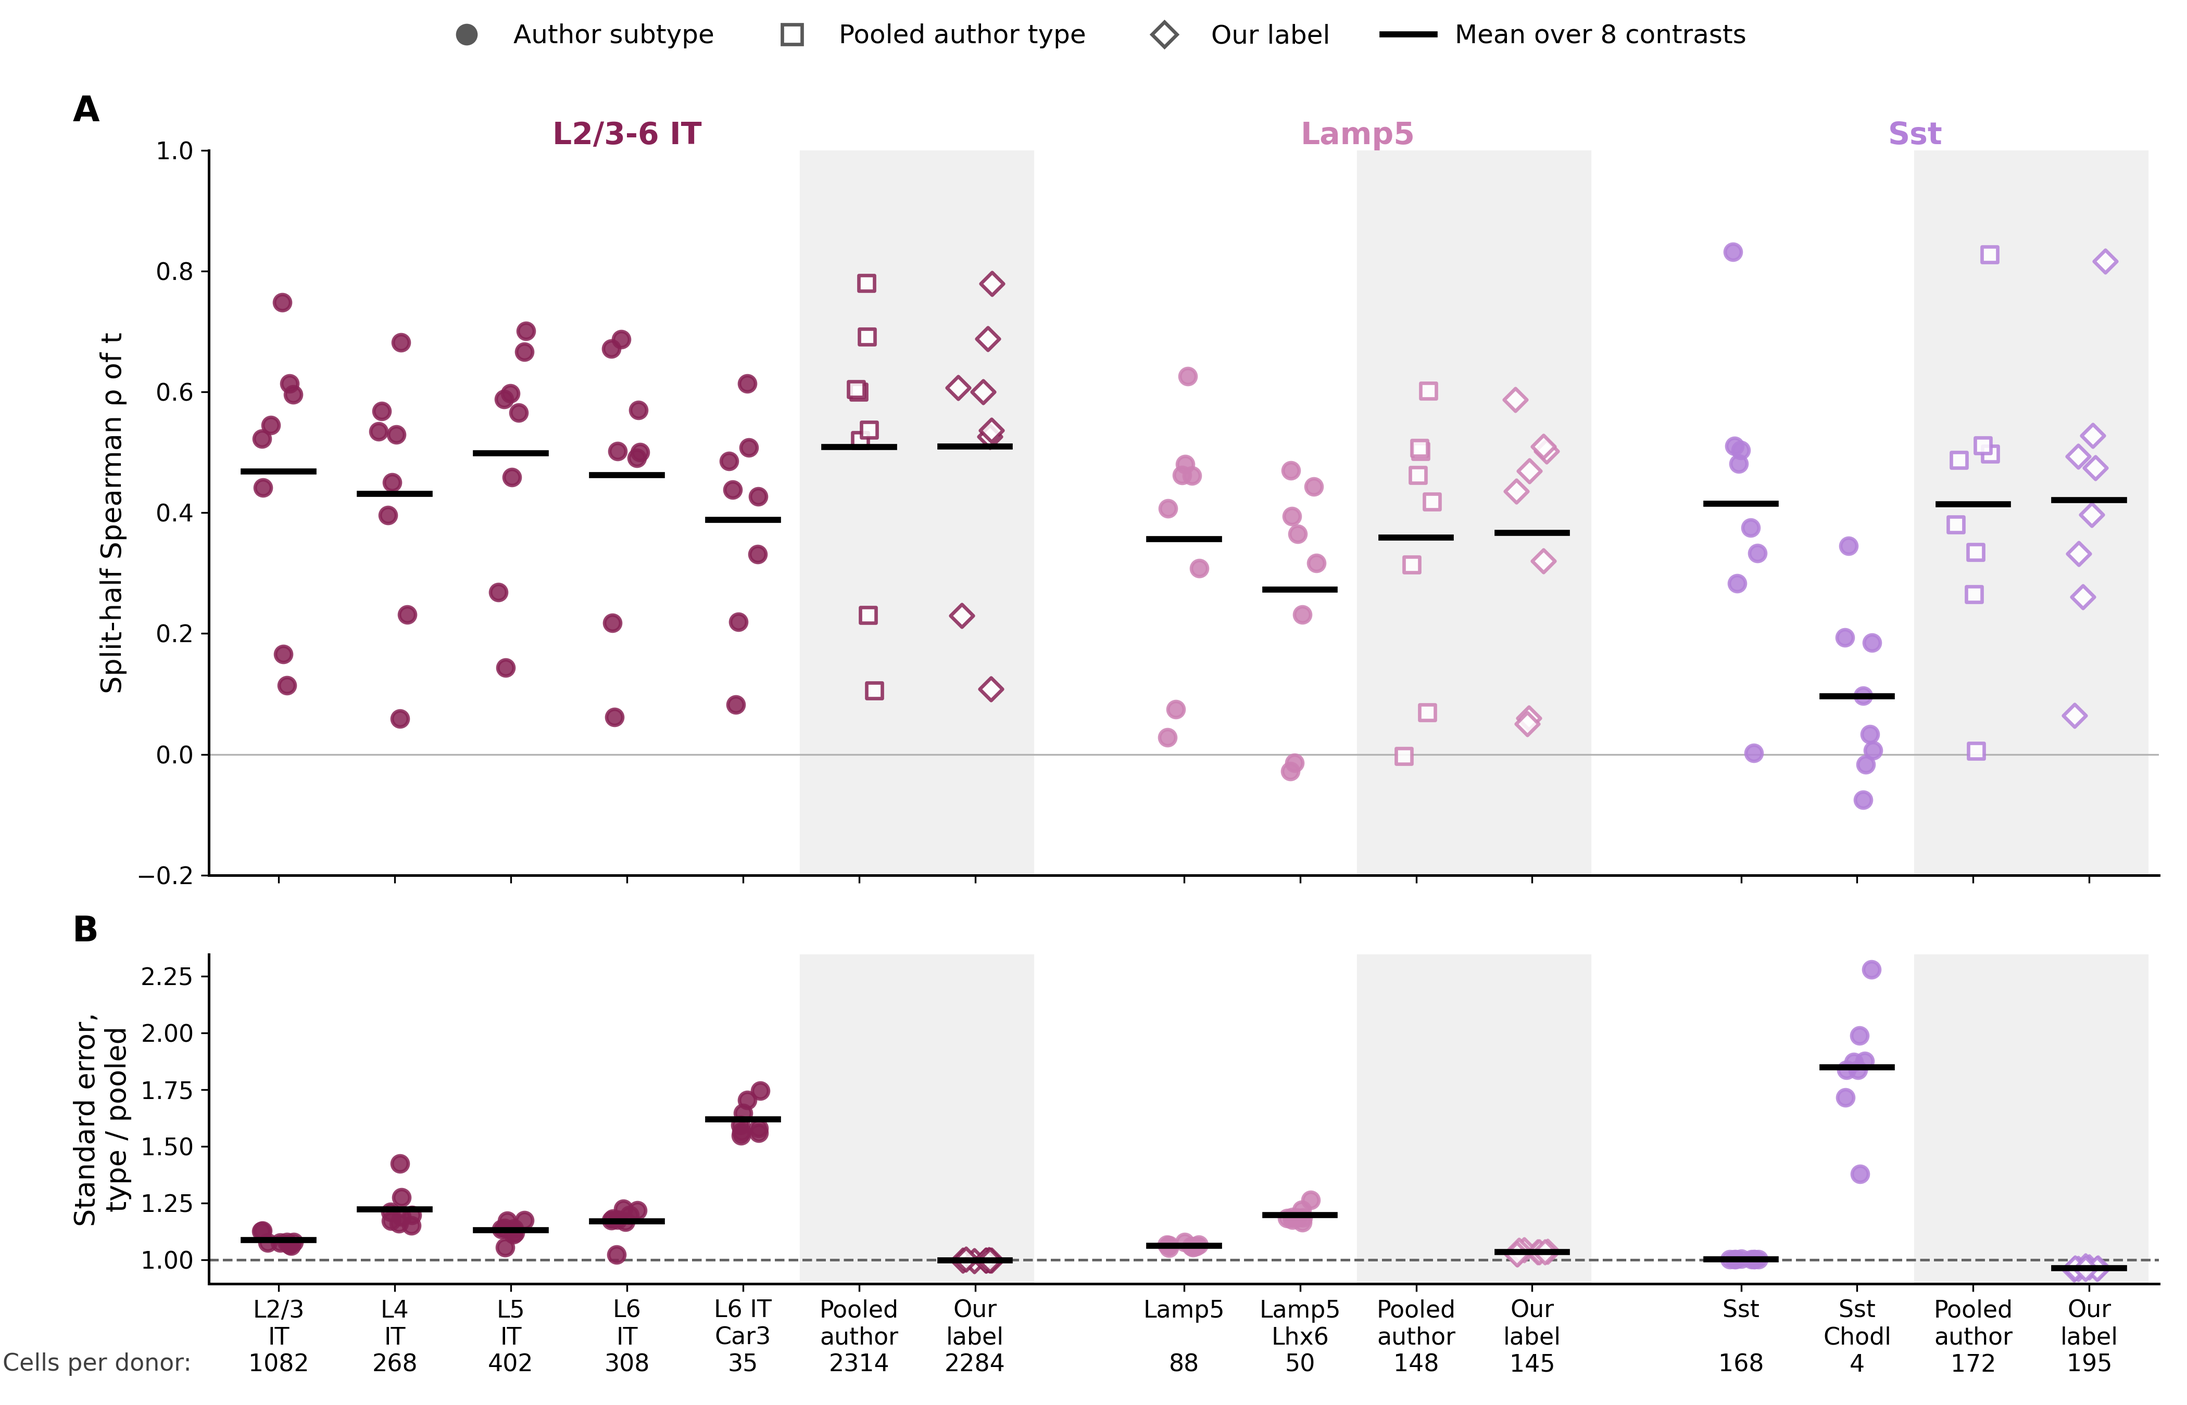
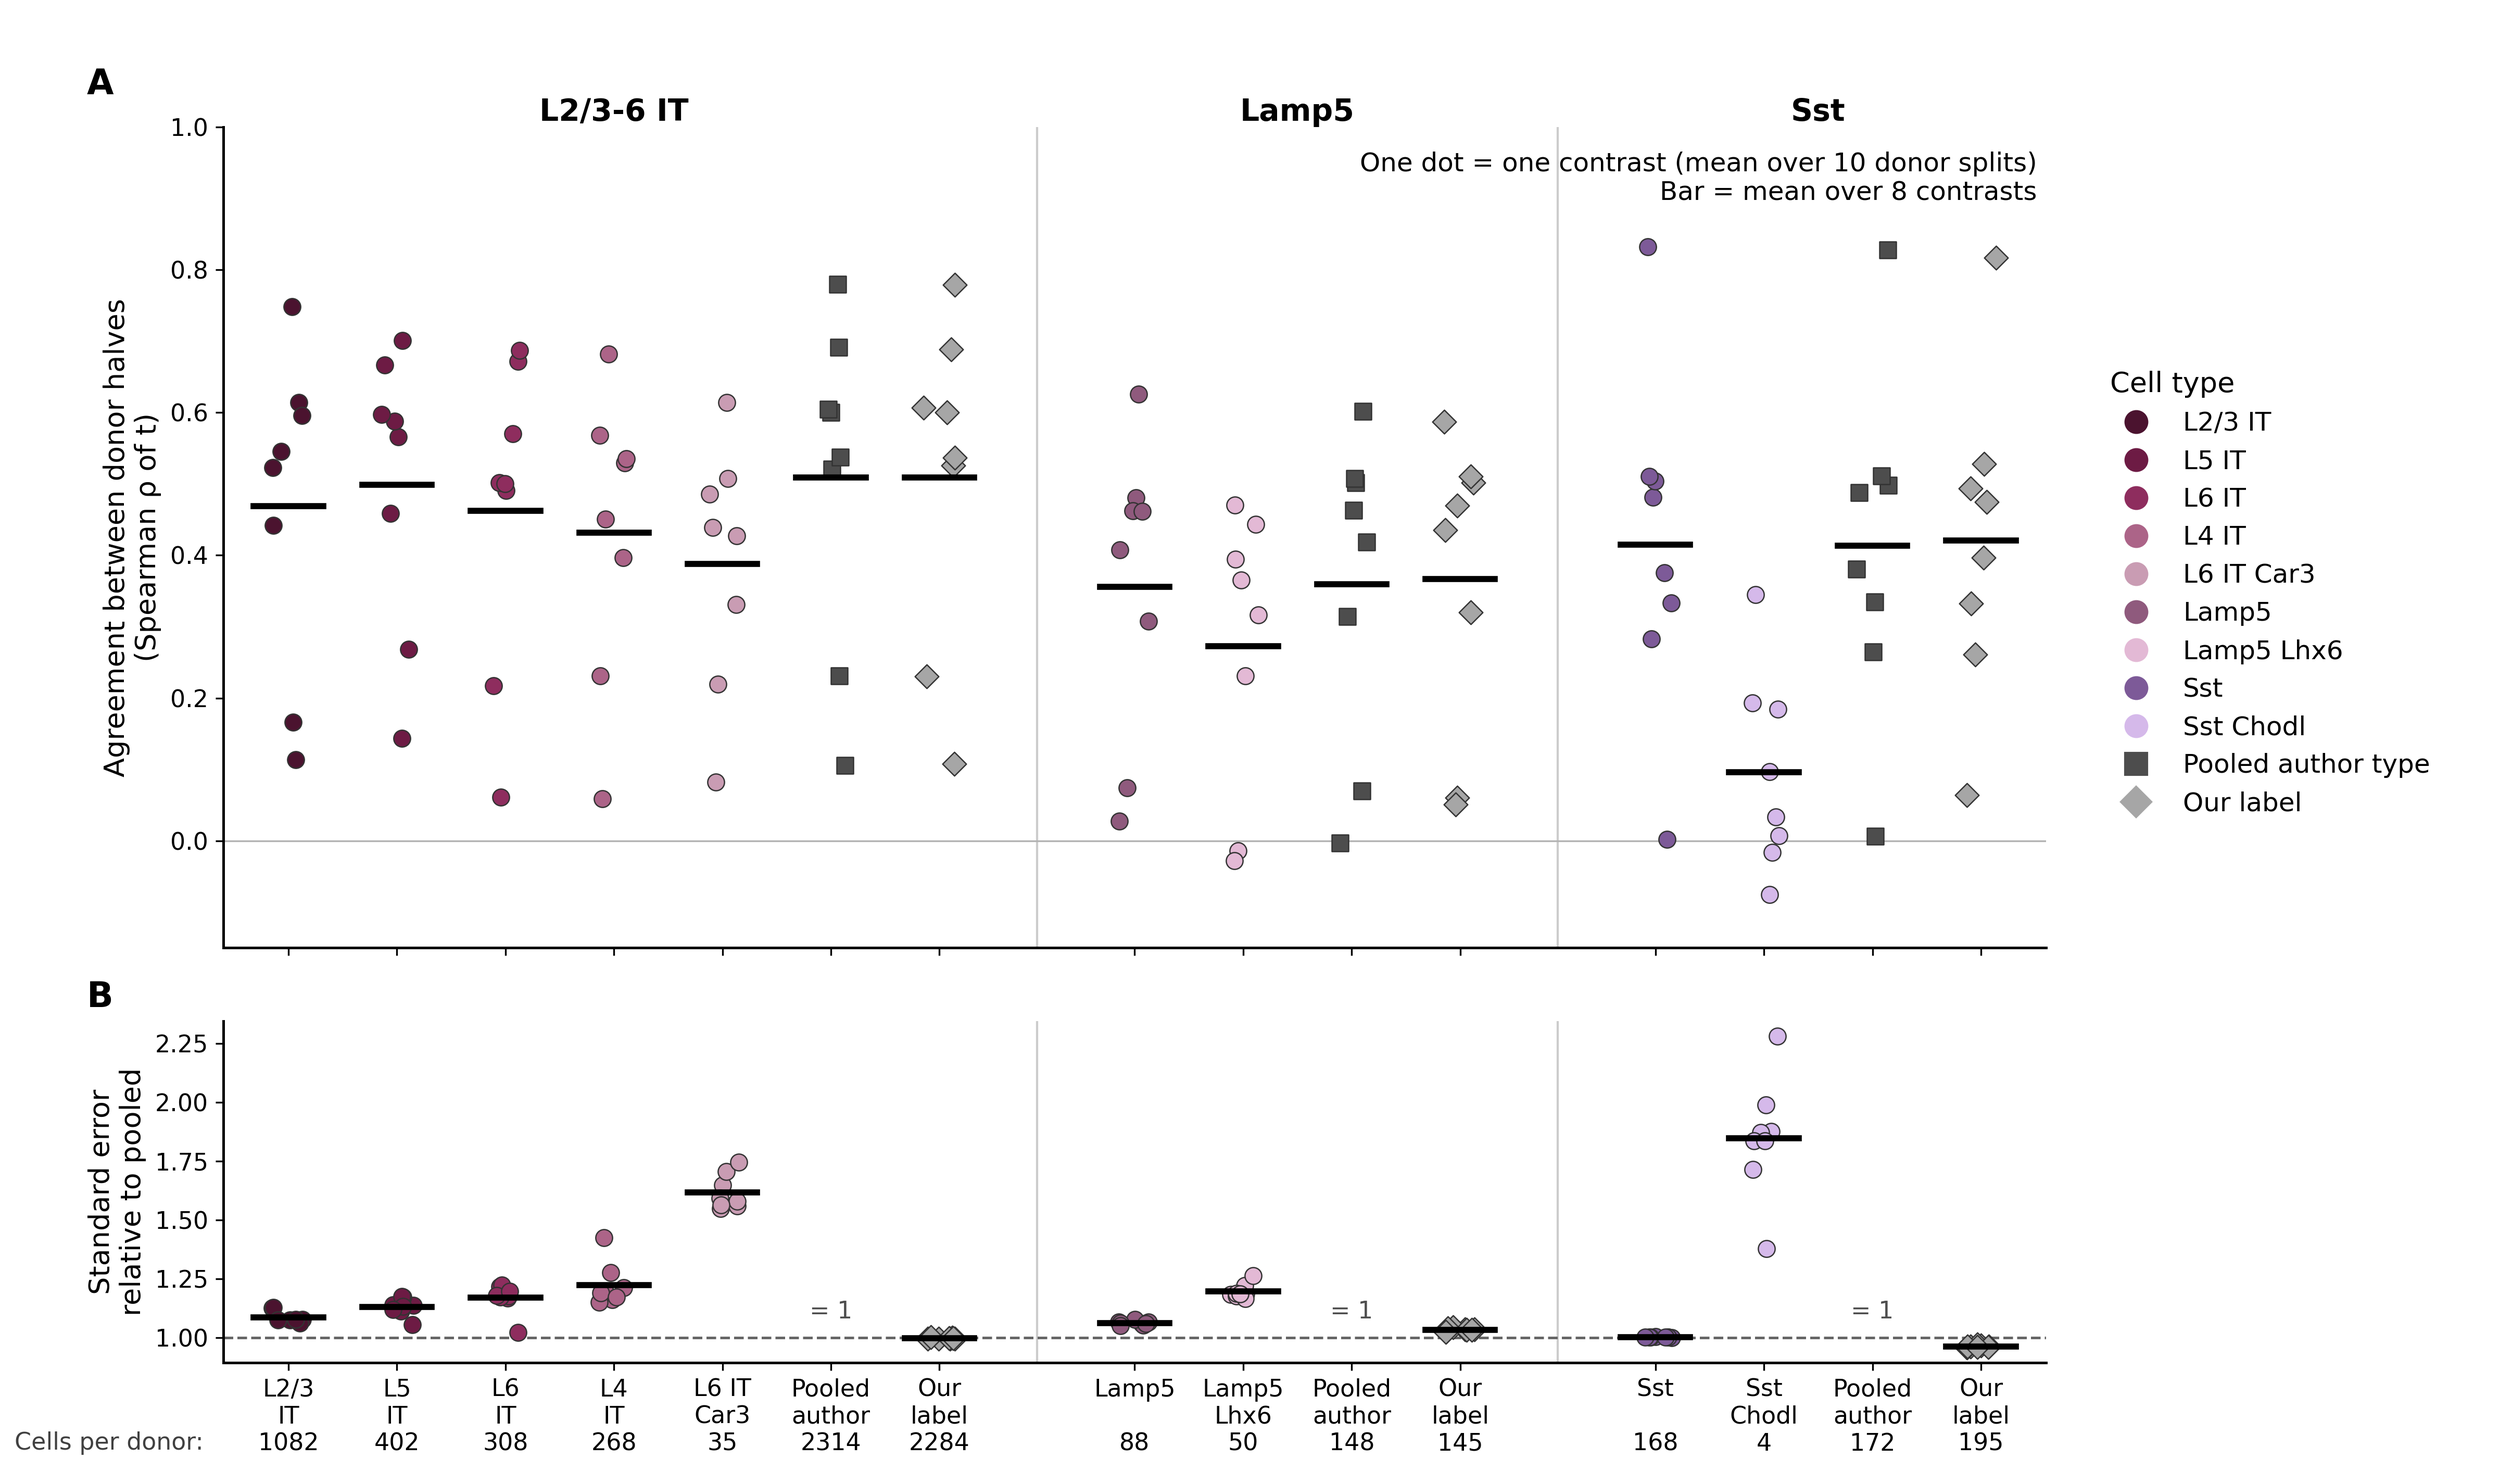
Redesign split-half figure: subtype colours, ordered by cells per donor
Claude-Session: https://claude.ai/code/session_01At8jYPVMc7frnUZfxzCKaW

diff --git a/subtype_vs_pooled/split_half/plot_split_half_t.py b/subtype_vs_pooled/split_half/plot_split_half_t.py
@@ -1,11 +1,13 @@
-"""Figure: split-half reproducibility of DE (A) and standard error ratio (B) per type.
+"""Figure: split-half reproducibility of DE (A) and standard error relative to pooled (B) per type.
 
 Reads rho_per_contrast.tsv, summary.tsv, se_ratio_per_contrast.tsv (this folder) and writes
 split_half_t.png, then adds the figure and its inputs to manifest.json (section "figure").
-A: Spearman rho of moderated t between donor halves, one point per contrast (mean over 10 splits),
-black bar = mean over the eight contrasts. B: median ratio of standard errors, type over pooled
-author type, one point per contrast, from the full-data fits. Same x axis in both panels.
-Colours: class level of the shared manuscript palette.
+A: Spearman rho of moderated t between donor halves, one dot per contrast (mean over 10 donor
+splits), black bar = mean over the eight contrasts. B: median ratio of standard errors, type over
+pooled author type, one dot per contrast, from the full-data fits. Same x axis in both panels.
+Within each group, subtypes are ordered by median cells per donor (most first), then the pooled
+author type and our label. Subtype colours are shades of the group's class colour in the shared
+manuscript palette (darker = more cells per donor); pooled author type and our label are greys.
 """
 import csv
 import datetime
@@ -27,11 +29,22 @@ OUT_PNG = os.path.join(HERE, "split_half_t.png")
 GROUPS = ["IT", "Lamp5", "Sst"]
 GROUP_CLASS = {"IT": "L2/3-6 IT", "Lamp5": "LAMP5", "Sst": "SST"}
 GROUP_TITLE = {"IT": "L2/3-6 IT", "Lamp5": "Lamp5", "Sst": "Sst"}
-# two-line names so cells per donor sits on the third line of every tick label
-SUB_LABEL = {"L2.3_IT": "L2/3\nIT", "L4_IT": "L4\nIT", "L5_IT": "L5\nIT", "L6_IT": "L6\nIT",
-             "L6_IT_Car3": "L6 IT\nCar3", "Lamp5": "Lamp5\n", "Lamp5_Lhx6": "Lamp5\nLhx6",
-             "Sst": "Sst\n", "Sst_Chodl": "Sst\nChodl"}
-KIND = {"author": ("Author subtype", "o"), "merged": ("Pooled author type", "s"), "ours": ("Our label", "D")}
+SUB_NAME = {"L2.3_IT": "L2/3 IT", "L4_IT": "L4 IT", "L5_IT": "L5 IT", "L6_IT": "L6 IT",
+            "L6_IT_Car3": "L6 IT Car3", "Lamp5": "Lamp5", "Lamp5_Lhx6": "Lamp5 Lhx6",
+            "Sst": "Sst", "Sst_Chodl": "Sst Chodl"}
+# two-line tick names so cells per donor sits on the third line of every tick label
+TICK = {"L2.3_IT": "L2/3\nIT", "L4_IT": "L4\nIT", "L5_IT": "L5\nIT", "L6_IT": "L6\nIT",
+        "L6_IT_Car3": "L6 IT\nCar3", "Lamp5": "Lamp5\n", "Lamp5_Lhx6": "Lamp5\nLhx6",
+        "Sst": "Sst\n", "Sst_Chodl": "Sst\nChodl", "merged": "Pooled\nauthor", "ours": "Our\nlabel"}
+NEUTRAL = {"merged": ("#4D4D4D", "s", "Pooled author type"), "ours": ("#A6A6A6", "D", "Our label")}
+
+
+def shades(hex_, n):
+    """n shades of a colour, darkest first (mixed toward black, then toward white)."""
+    from matplotlib.colors import to_rgb
+    c = np.array(to_rgb(hex_))
+    f = np.linspace(-0.45, 0.55, n) if n > 2 else np.array([-0.3, 0.45])[:n]
+    return [tuple(c * (1 + v)) if v < 0 else tuple(c + (1 - c) * v) for v in f]
 
 
 def sha(p):
@@ -44,73 +57,77 @@ def sha(p):
 
 def main():
     pal = {r["label"]: r["hex"] for r in csv.DictReader(open(PALETTE_TSV), delimiter="\t") if r["level"] == "class"}
-    col = {g: pal[GROUP_CLASS[g]] for g in GROUPS}
     rho = pd.read_csv(IN["rho"], sep="\t")
     summ = pd.read_csv(IN["summary"], sep="\t")
     se = pd.read_csv(IN["se"], sep="\t")
 
-    # x layout: per group, subtypes then pooled author then our label, with a gap between groups
-    cols, x, pos = [], 0, {}
+    cols, x, pos, sub_handles = [], 0, {}, []
     for g in GROUPS:
         s = summ[summ.group == g]
-        for sch in ["author", "merged", "ours"]:
-            for _, r in s[s.scheme == sch].iterrows():
-                name = SUB_LABEL.get(r.celltype, "Pooled\nauthor" if sch == "merged" else "Our\nlabel")
-                cols.append(dict(group=g, scheme=sch, celltype=r.celltype, x=x,
-                                 label=f"{name}\n{r.median_cells_per_donor:.0f}"))
-                x += 1
-        pos[g] = (cols[-1]["x"] - len(s) + 1, cols[-1]["x"])
+        subs = s[s.scheme == "author"].sort_values("median_cells_per_donor", ascending=False)
+        shade = shades(pal[GROUP_CLASS[g]], len(subs))
+        start = x
+        for (_, r), c in zip(subs.iterrows(), shade):
+            cols.append(dict(group=g, scheme="author", celltype=r.celltype, x=x, color=c, marker="o",
+                             label=f"{TICK[r.celltype]}\n{r.median_cells_per_donor:.0f}"))
+            sub_handles.append(plt.Line2D([], [], ls="", marker="o", color=c, markersize=10, label=SUB_NAME[r.celltype]))
+            x += 1
+        for sch in ["merged", "ours"]:
+            r = s[s.scheme == sch].iloc[0]
+            c, mk, _ = NEUTRAL[sch]
+            cols.append(dict(group=g, scheme=sch, celltype=r.celltype, x=x, color=c, marker=mk,
+                             label=f"{TICK[sch]}\n{r.median_cells_per_donor:.0f}"))
+            x += 1
+        pos[g] = (start, x - 1)
         x += 0.8
 
     plt.rcParams.update({"font.family": "DejaVu Sans", "font.size": 12, "axes.spines.top": False,
                          "axes.spines.right": False, "axes.linewidth": 1.2})
-    fig, (axA, axB) = plt.subplots(2, 1, figsize=(14, 9), sharex=True, gridspec_kw={"height_ratios": [2.2, 1]})
+    fig, (axA, axB) = plt.subplots(2, 1, figsize=(16, 9.5), sharex=True, gridspec_kw={"height_ratios": [2.4, 1]})
     rng = np.random.default_rng(0)
     for c in cols:
-        kind_lab, mk = KIND[c["scheme"]]
-        fill = col[c["group"]] if c["scheme"] == "author" else "white"
         sel = lambda d: d[(d.scheme == c["scheme"]) & (d.celltype == c["celltype"]) & (d.group == c["group"])]
         for ax, d, ycol in [(axA, sel(rho), "mean_rho_t"), (axB, sel(se), "median_se_ratio_vs_pooled")]:
             v = d[ycol].dropna().to_numpy()
             if len(v) == 0:
                 continue
-            ax.scatter(c["x"] + rng.uniform(-0.15, 0.15, len(v)), v, s=55, marker=mk, facecolor=fill,
-                       edgecolor=col[c["group"]], linewidth=1.6, alpha=0.85, zorder=2)
-            ax.plot([c["x"] - 0.3, c["x"] + 0.3], [v.mean()] * 2, color="black", lw=2.8, zorder=3)
-        if c["scheme"] != "author":
-            axA.axvspan(c["x"] - 0.5, c["x"] + 0.5, color="0.94", zorder=0)
-            axB.axvspan(c["x"] - 0.5, c["x"] + 0.5, color="0.94", zorder=0)
+            ax.scatter(c["x"] + rng.uniform(-0.15, 0.15, len(v)), v, s=60, marker=c["marker"], color=c["color"],
+                       edgecolor="0.2", linewidth=0.6, zorder=2)
+            ax.plot([c["x"] - 0.32, c["x"] + 0.32], [v.mean()] * 2, color="black", lw=2.8, zorder=3)
     for g in GROUPS:
         a, b = pos[g]
         axA.text((a + b) / 2, 1.0, GROUP_TITLE[g], transform=axA.get_xaxis_transform(), ha="center",
-                 va="bottom", fontsize=14, fontweight="bold", color=col[g])
+                 va="bottom", fontsize=14, fontweight="bold")
+        for ax in (axA, axB):
+            if g != GROUPS[0]:
+                ax.axvline(a - 0.9, color="0.8", lw=1, zorder=0)
     axB.axhline(1, color="0.4", lw=1.2, ls="--", zorder=1)
+    for c in cols:  # the pooled author column is empty in B (ratio 1 by definition): label the line there
+        if c["scheme"] == "merged":
+            axB.text(c["x"], 1.06, "= 1", ha="center", va="bottom", fontsize=11, color="0.3")
     axB.set_xticks([c["x"] for c in cols])
     axB.set_xticklabels([c["label"] for c in cols], fontsize=11)
     axB.set_xlim(-0.6, cols[-1]["x"] + 0.6)
-    axA.set_ylabel("Split-half Spearman ρ of t", fontsize=13)
-    axB.set_ylabel("Standard error,\ntype / pooled", fontsize=13)
-    axA.set_ylim(-0.2, 1.0)
+    axA.set_ylabel("Agreement between donor halves\n(Spearman ρ of t)", fontsize=13)
+    axB.set_ylabel("Standard error\nrelative to pooled", fontsize=13)
+    axA.set_ylim(-0.15, 1.0)
     axA.axhline(0, color="0.7", lw=0.8, zorder=1)
+    axA.text(0.995, 0.97, "One dot = one contrast (mean over 10 donor splits)\nBar = mean over 8 contrasts",
+             transform=axA.transAxes, ha="right", va="top", fontsize=12)
     for ax in (axA, axB):
         ax.tick_params(axis="y", labelsize=11)
-    axA.text(-0.07, 1.04, "A", transform=axA.transAxes, fontsize=16, fontweight="bold")
-    axB.text(-0.07, 1.04, "B", transform=axB.transAxes, fontsize=16, fontweight="bold")
-    grey = "0.35"
-    handles = [plt.Line2D([], [], ls="", marker="o", markerfacecolor=grey, markeredgecolor=grey, markersize=9,
-                          label="Author subtype"),
-               plt.Line2D([], [], ls="", marker="s", markerfacecolor="white", markeredgecolor=grey,
-                          markeredgewidth=1.6, markersize=9, label="Pooled author type"),
-               plt.Line2D([], [], ls="", marker="D", markerfacecolor="white", markeredgecolor=grey,
-                          markeredgewidth=1.6, markersize=8, label="Our label"),
-               plt.Line2D([], [], color="black", lw=2.8, label="Mean over 8 contrasts")]
-    fig.legend(handles=handles, loc="upper center", bbox_to_anchor=(0.5, 1.0), ncol=4, fontsize=12, frameon=False)
-    fig.tight_layout(rect=(0.02, 0, 1, 0.95))
+    axA.text(-0.075, 1.04, "A", transform=axA.transAxes, fontsize=16, fontweight="bold")
+    axB.text(-0.075, 1.04, "B", transform=axB.transAxes, fontsize=16, fontweight="bold")
+    handles = sub_handles + [plt.Line2D([], [], ls="", marker=NEUTRAL[k][1], color=NEUTRAL[k][0], markersize=10,
+                                        label=NEUTRAL[k][2]) for k in ("merged", "ours")]
+    fig.legend(handles=handles, loc="center left", bbox_to_anchor=(0.835, 0.6), fontsize=12, frameon=False,
+               title="Cell type", title_fontsize=13, alignment="left")
+    fig.tight_layout(rect=(0.02, 0, 0.83, 0.97))
     # row label for the third tick-label line (cells per donor), placed after layout
     fig.canvas.draw()
     bb = axB.get_xticklabels()[0].get_window_extent().transformed(fig.transFigure.inverted())
-    x0 = axB.get_position().x0
-    fig.text(x0 - 0.008, bb.y0 + bb.height / 6, "Cells per donor:", fontsize=11, color="0.25", ha="right", va="center")
+    fig.text(axB.get_position().x0 - 0.008, bb.y0 + bb.height / 6, "Cells per donor:", fontsize=11,
+             color="0.25", ha="right", va="center")
     fig.savefig(OUT_PNG, dpi=300, facecolor="white")
 
     mp = os.path.join(HERE, "manifest.json")

diff --git a/subtype_vs_pooled/split_half/README.md b/subtype_vs_pooled/split_half/README.md
@@ -4,6 +4,6 @@ We asked whether pooling author subtypes gave more stable DE than DE on each sub
 
 Subtype standard errors exceeded pooled ones (ratios 1.00 to 1.85). Pooled IT (ρ = 0.51) was more reproducible than every IT subtype (0.39 to 0.50). Pooled Lamp5 and Sst matched their largest subtype (0.36, 0.41) and exceeded Lamp5 Lhx6 (0.27) and Sst Chodl (0.10).
 
-`split_half_t.png` (`plot_split_half_t.py`): split-half ρ of t (A) and standard error relative to the pooled author type (B), one point per contrast, bars at the mean; numbers under names give median cells per donor.
+`split_half_t.png` (`plot_split_half_t.py`): agreement of t between donor halves (A) and standard error relative to the pooled author type (B) for each subtype, ordered by cells per donor, the pooled author type and our label; one dot per contrast (mean over 10 splits), bars at the mean.
 
 `manifest.json` holds sha256, data version, seeds and timestamps.
